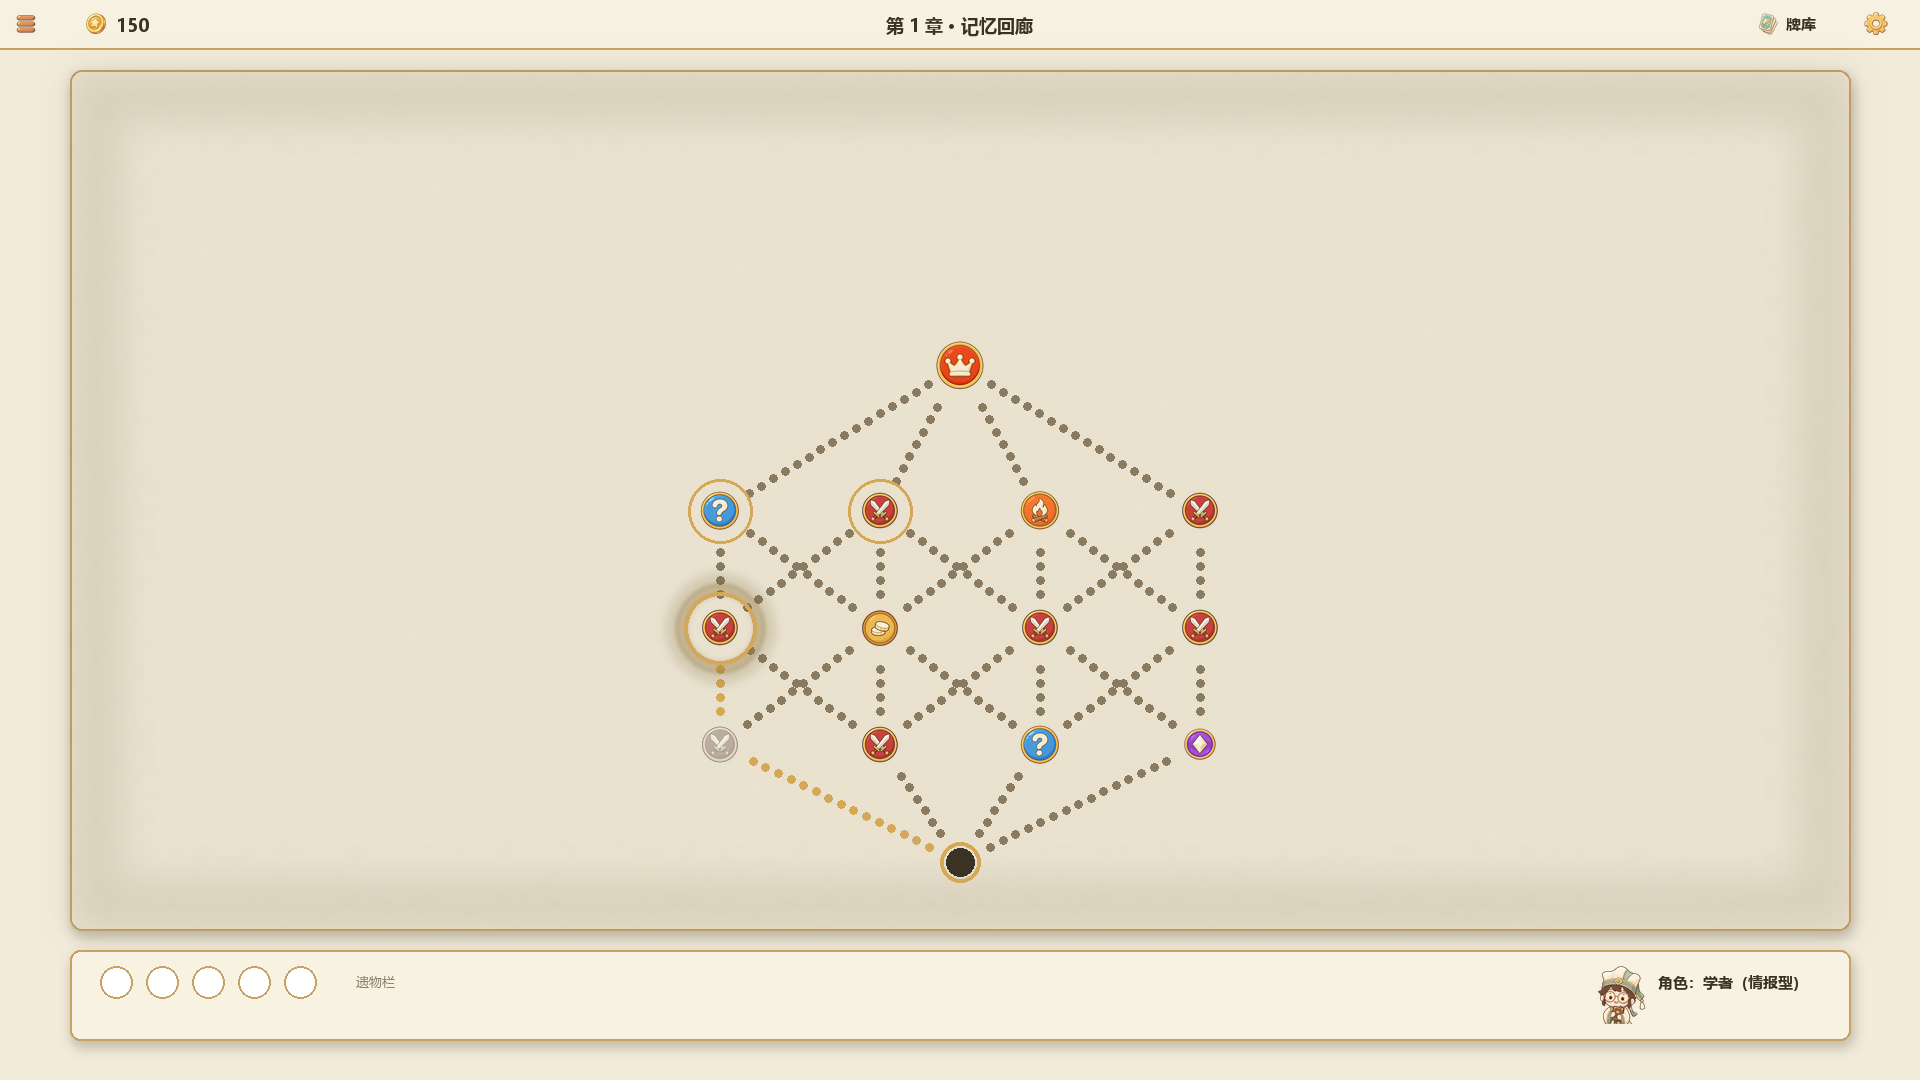
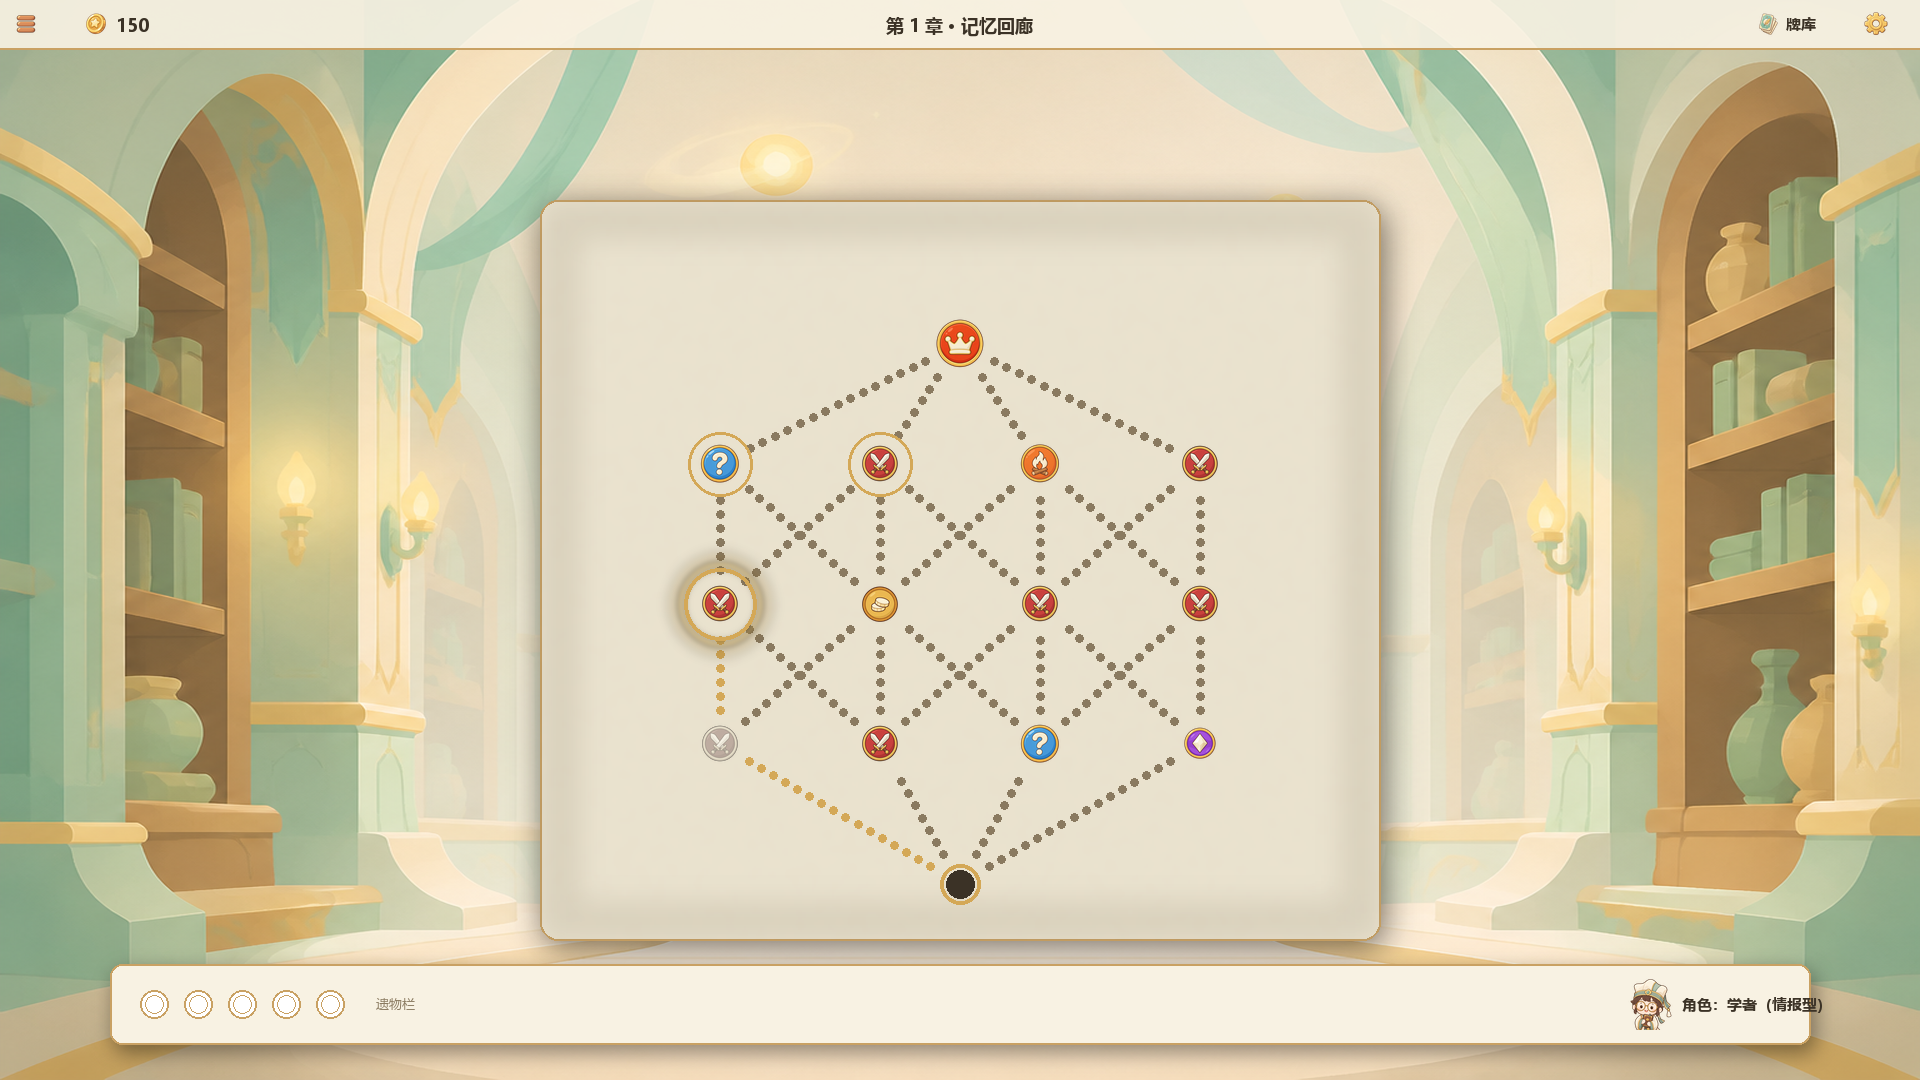
art: S04 背景版——bg_map 记忆回廊×2 候选 + 悬浮羊皮纸地图页构图（待拍板）——①用户反馈'连接线和节点都对、地图没问题，背景和其他地方不太合适'：病根=S04 是 13 屏中唯一无真背景的屏（平涂奶油纸+程序纸纹），且大面板 70px 边距近乎满屏、底栏素面板+裸圆槽；②bg_map 双候选生成（记忆回廊：圆拱书架+烛光+记忆宝珠+中央留空，背景族 prompt），vision 实测中央 std A=5.06<B=7.44 选 A，定名 bg_map.png 渲染；③s04_map 重构构图：bg 底图 + 地图收缩为居中悬浮羊皮纸页 840×740（圆角 18+投影 1

diff --git a/.agents/skills/mh-art/scripts/ui_mockup.py b/.agents/skills/mh-art/scripts/ui_mockup.py
@@ -491,28 +491,30 @@ def inner_vignette(img, box, r=12, width=52, alpha=26):
 
 
 def s04_map():
-    """S04 Meta地图（09 §7.1）：奶油纸底 + 自下而上节点树（点线路径、node_* 图标、
-    当前位置金圈、可选节点金环）+ 底部状态栏；标注文字不入画。"""
-    img = Image.new("RGBA", (W, H), CREAM)
+    """S04 Meta地图（09 §7.1）：bg_map 回廊场景 + 居中悬浮羊皮纸地图页（自下而上
+    节点树：点线路径、node_* 徽章、当前位置金圈、可选节点金环）+ 全宽悬浮底栏；画布零文字。"""
+    base = asset("bg_map.png") or Image.new("RGBA", (W, H), CREAM)
+    img = base.copy()
     topbar(img, "第 1 章 · 记忆回廊")
-    mbox = [70, 70, W - 70, H - 150]
-    panel(img, mbox, 12, fill=PANEL)
+    mbox = [W // 2 - 420, 200, W // 2 + 420, 940]     # 地图页（羊皮纸），背景在四周可见
+    drop_shadow(img, mbox, r=18, alpha=125, blur=16)
+    panel(img, mbox, 18, fill=PANEL, shadow=False)
     paper_grain(img, mbox)
-    inner_vignette(img, mbox)
+    inner_vignette(img, mbox, r=18, width=40)
     d = ImageDraw.Draw(img)
 
-    # 层（自下而上；列距 160 → 相邻层同列/邻列可连，Boss 顶点与第 4 层全连）
+    # 层（自下而上，行距 140 保证同列边点数充足；列距 160 → 邻列可连，Boss 顶点全连）
     cx0 = W // 2
     cols = (-240, -80, 80, 240)
     rows = [
-        (862, [("start", 0)]),                                   # 起点
-        (745, [("battle", cols[0]), ("battle", cols[1]),
+        (884, [("start", 0)]),                                   # 起点
+        (744, [("battle", cols[0]), ("battle", cols[1]),
                ("event", cols[2]), ("elite", cols[3])]),
-        (628, [("battle", cols[0]), ("shop", cols[1]),
+        (604, [("battle", cols[0]), ("shop", cols[1]),
                ("battle", cols[2]), ("battle", cols[3])]),
-        (511, [("event", cols[0]), ("battle", cols[1]),
+        (464, [("event", cols[0]), ("battle", cols[1]),
                ("campfire", cols[2]), ("battle", cols[3])]),
-        (366, [("boss", 0)]),                                    # 章节 Boss
+        (344, [("boss", 0)]),                                    # 章节 Boss
     ]
     # 叙事：已走 = 起点→一层左→二层左；当前 = 二层左战斗节点；可选 = 三层左/中左
     chosen_edges = {(0, 0, 0), (1, 0, 0)}
@@ -533,7 +535,7 @@ def s04_map():
                 chosen = (ri, ci, cj) in chosen_edges
                 dotted_edge(d, node_xy(ri, ci), node_xy(ri + 1, cj),
                             GOLD if chosen else SUB,
-                            trim0=34, trim1=36 if top_is_boss else 32)
+                            trim0=34, trim1=36 if top_is_boss else 30)
     for ri, (_, nodes) in enumerate(rows):
         for ci, (kind, dx) in enumerate(nodes):
             map_node(img, cx0 + dx, rows[ri][0], kind, dim=(ri, ci) in dimmed)
@@ -545,17 +547,23 @@ def s04_map():
     cur_x, cur_y = node_xy(2, 0)
     current_marker(img, cur_x, cur_y)
 
-    # 底部状态栏
-    panel(img, [70, H - 130, W - 70, H - 40], 10, fill=BRIGHT)
+    # 全宽悬浮底栏：遗物空槽（双环细化）+ 角色信息
+    bbar = [110, 964, W - 110, 1044]
+    drop_shadow(img, bbar, r=12, alpha=105, blur=10)
+    panel(img, bbar, 12, fill=BRIGHT, shadow=False)
+    cy = (bbar[1] + bbar[3]) // 2
     for i in range(5):
-        d.ellipse([100 + i * 46, H - 114, 132 + i * 46, H - 82],
+        sx = 140 + i * 44 + 14
+        d.ellipse([sx - 14, cy - 14, sx + 14, cy + 14],
                   fill=(255, 255, 255, 90), outline=BORDER, width=2)
-    text(d, (356, H - 98), "遗物栏", size=13, fill=SUB, bold=False, anchor="lm")
+        d.ellipse([sx - 9, cy - 9, sx + 9, cy + 9],
+                  outline=BORDER[:3] + (90,), width=1)
+    text(d, (376, cy), "遗物栏", size=13, fill=SUB, bold=False, anchor="lm")
     scholar = asset("portrait_scholar.png")
     if scholar:
         head = scholar.crop((0, 0, scholar.width, int(scholar.width * 1.1)))
-        paste_fit(img, head, W - 300, H - 85, 60)
-    text(d, (W - 262, H - 98), "角色：学者（情报型）", size=15, anchor="lm")
+        paste_fit(img, head, W - 270, cy, 52)
+    text(d, (W - 238, cy), "角色：学者（情报型）", size=15, anchor="lm")
     return img, "mockup_s04_map.png"
 
 
